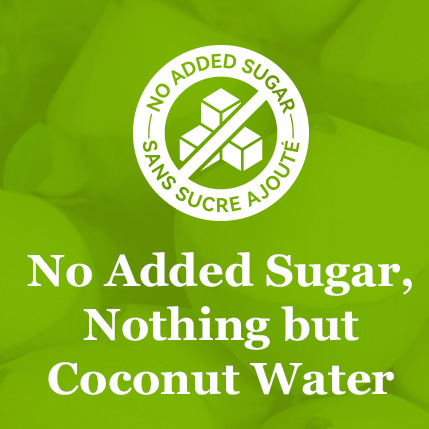
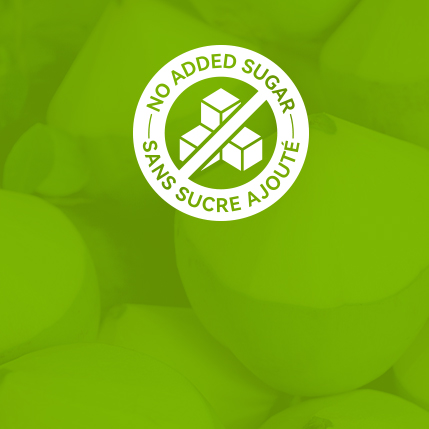
Fix UI issue

diff --git a/philosophy.php b/philosophy.php
@@ -1418,9 +1418,9 @@ z-index: 1001;
                                                 </div>
                                                 <div class="elementor-element d-flex justify-content-center  elementor-widget__width-initial elementor-widget-mobile__width-inherit elementor-widget elementor-widget-heading" data-id="d207a17" data-element_type="widget" data-widget_type="heading.default">
                                                     <div class="elementor-widget-container text-center">
-                                                        <h4 class="homepageTitle elementor-size-default description"  style="font-size: 26px; font-weight: 700;">
+                                                        <h4 class="homepageTitle elementor-size-default description"  style="font-size: 26px; font-weight: 700; text-align: center">
                                                             To inspire healthy lifestyle by providing</h4>
-                                                        <h4 class="homepageTitle elementor-size-default description"  style="font-size: 26px; font-weight: 700;">
+                                                        <h4 class="homepageTitle elementor-size-default description"  style="font-size: 26px; font-weight: 700; text-align: center">
                                                             the freshest and finest products to everyone</h4>
                                                     </div>
                                                 </div>
@@ -1497,9 +1497,9 @@ z-index: 1001;
                                                 </div>
                                                 <div class="elementor-element d-flex justify-content-center elementor-widget__width-initial elementor-widget-mobile__width-inherit elementor-widget elementor-widget-text-editor" data-id="da5b477" data-element_type="widget" data-widget_type="text-editor.default">
                                                     <div class="elementor-widget-container">
-                                                        <h4 class="homepageTitle text-center elementor-size-default description"  style="font-size: 26px; font-weight: 700;">
+                                                        <h4 class="homepageTitle text-center elementor-size-default description"  style="font-size: 26px; font-weight: 700; text-align: center">
                                                         To be the leading provider of premium quality,</h4>
-                                                        <h4 class="homepageTitle text-center elementor-size-default mb-4 description"  style="font-size: 26px; font-weight: 700;">
+                                                        <h4 class="homepageTitle text-center elementor-size-default mb-4 description"  style="font-size: 26px; font-weight: 700; text-align: center">
                                                         natural products in British Columbia and beyond.</h4>
                                                         <p class="homepageDesc pereDesc" style="color: #555 !important; padding: 10px" >We envision a future where individuals can enjoy flavorful drinks and snacks
                                                             that not only satisfy their taste buds but also align with their health-conscious lifestyles.

diff --git a/index.php b/index.php
@@ -516,6 +516,22 @@ function setREVStartSize(e) {
                                                                                                 srcset="img/masonry-img-2.jpg 500w, img/masonry-img-2-300x300.jpg 300w, img/masonry-img-2-100x100.jpg 100w, img/masonry-img-2-150x150.jpg 150w"
                                                                                                 sizes="(max-width: 500px) 100vw, 500px" />
                                                                                         </div>
+                                                                                        <div class="qodef-e-content">
+                                                                                            <div itemprop="description"
+                                                                                                class="qodef-e-text">
+                                                                                                <div
+                                                                                                    class="qodef-shortcode qodef-m  qodef-section-title qodef-alignment--center  ">
+                                                                                                    <h2 class="homepageTitle"
+                                                                                                        style="color: #FFFFFF; margin: 0% 0% 3.3% 0%">
+                                                                                                        No Added Sugar,
+                                                                                                    </h2>
+                                                                                                    <h2 class="homepageTitle"
+                                                                                                        style="color: #FFFFFF; margin: 0% 0% 3.3% 0%">
+                                                                                                        Nothing but Coconut Water
+                                                                                                    </h2>
+                                                                                                </div>
+                                                                                            </div>
+                                                                                        </div>
                                                                                     </div>
                                                                                 </div>
                                                                                 <div

diff --git a/product-coco-water.php b/product-coco-water.php
@@ -432,9 +432,9 @@
                                 <div class="section-title mb-30 clearfix d-flex align-center flex-column ">
                                     <!-- section title -->
                                     <div class="title-header">
-                                        <h4 class="homepageTitle description text-white" style="font-weight:600">Specifically designed 200 mL carton, making it easy to drink from and convenient for on the run lifestyles</h4>
+                                        <h4 class="homepageTitle description text-white" style="font-weight:600">Specifically designed 250 mL carton, making it easy to drink from and convenient for on the run lifestyles</h4>
                                     </div>
-                                    <div class="pereDesc homepageDesc text-white pt-4" style="font-weight:500; line-height: 1.6em;">200 mL is the most fluid that the average human can absorb in an hour, excess liquid along with the nutrients is wasted</div>
+                                    <div class="pereDesc homepageDesc text-white pt-4" style="font-weight:500; line-height: 1.6em;">250 mL is the most fluid that the average human can absorb in an hour, excess liquid along with the nutrients is wasted</div>
                                 </div><!-- section title end -->
                             </div>
                         </div>
